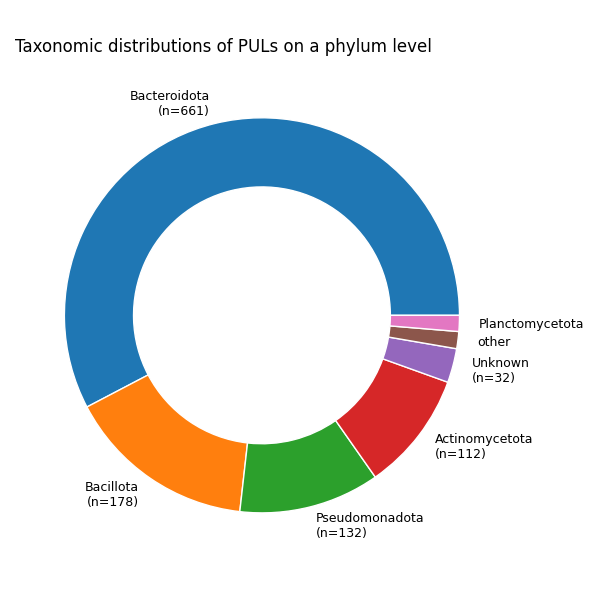
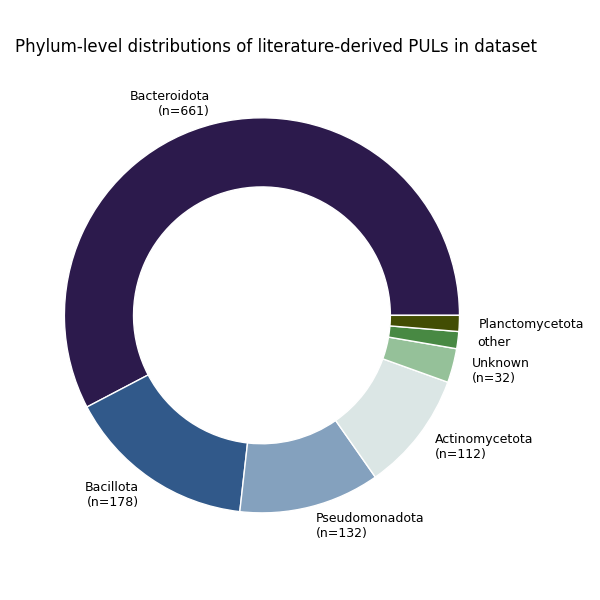
change colors of plots

Changed region(s): [[0.09, 0.18, 0.78, 0.87], [0.03, 0.06, 0.9, 0.09]]

diff --git a/src/scripts/visualization/dataset_construction.py b/src/scripts/visualization/dataset_construction.py
@@ -5,6 +5,7 @@ import seaborn as sns
 from cryptic_puls_plots import join_gene_and_PUL_table
 import numpy as np
 from visualization_utilities import get_bins
+from viz_data import model_colors, Cork_7, Bold_10, Bilbao_5, Buda_4
 
 
 # KDE PUL LENGTHS PLOT #
@@ -65,7 +66,8 @@ def donut_chart(ax, counts, rank, title):
         labels=labels,
         radius=1,
         wedgeprops=dict(width=0.35, edgecolor='w'),
-        textprops={'fontsize': 9}
+        textprops={'fontsize': 9},
+        colors=Cork_7[:len(counts)]
     )
 
 def plot_taxonomy(ax, all_puls):
@@ -102,7 +104,8 @@ def plot_pul_gene_count(ax, genes, labeled_table):
     y = [counts_dict.get(label, 0) for label in labels]
     x = np.arange(len(labels))
 
-    ax.bar(x, y, edgecolor="black", width=1.0, align="center")
+    ax.grid(axis="y", linestyle="--", alpha=0.7)
+    ax.bar(x, y, edgecolor=Cork_7[2], width=1.0, align="center", color=Cork_7[0])
     ax.set_xticks(x)
     ax.set_xticklabels(labels, rotation=45, ha="right")
     ax.margins(x=0.02)
@@ -125,9 +128,15 @@ def plot_venn_diagram_database(ax, experimental_puls):
     # plot overlap
     v = venn3(
         [dbcan_sequences, puldb_sequences, cblaster_sequences], 
-        set_labels=('dcCAN-PUL', 'PULDB', "Cblaster-strict"), 
-        ax=ax
+        set_labels=(f'dcCAN-PUL (n={len(dbcan_sequences)})', f'PULDB (n={len(puldb_sequences)})', f'Cblaster-strict (n={len(cblaster_sequences)})'), 
+        ax=ax,
+        set_colors=(Cork_7[0], Cork_7[1], Cork_7[-1]),
+        alpha=0.82
     )
+    for patch in v.patches:
+        patch.set_edgecolor("white")
+        patch.set_linewidth(0.5)
+
     for t in v.set_labels + v.subset_labels:
         if t:
             t.set_fontsize(9)
@@ -154,7 +163,6 @@ def main():
     )
     genes = polars.read_parquet("src/data/genecat_output/genome.genes.parquet")
     original_clusters = polars.read_csv("src/data/data_collection/combined_clusters.tsv", separator="\t", infer_schema_length=600)
-    get_info_on_data(all_puls, genes)
 
     fig1, ax1 = plt.subplots(figsize=(6, 4))
     fig2, ax_tax = plt.subplots(figsize=(6, 6))
@@ -165,9 +173,9 @@ def main():
     plot_pul_gene_count(ax3, genes, all_puls)
 
     titles = {
-        ax1: "PUL origin in dataset",
+        ax1: "Origin of literature-derived PUL annotations in dataset",
         ax3: "PUL length distribution",
-        ax_tax: "Taxonomic distributions of PULs on a phylum level"
+        ax_tax: "Phylum-level distributions of literature-derived PULs in dataset"
     }
     for ax, title in titles.items():
         ax.set_title(title, loc='left', pad=12)
@@ -185,6 +193,7 @@ def main():
     fig3.tight_layout()
     fig3.savefig("results/plots/dataset_pul_lengths.png")
 
+    get_info_on_data(all_puls, genes)
 
 if __name__ == "__main__":
     main()
